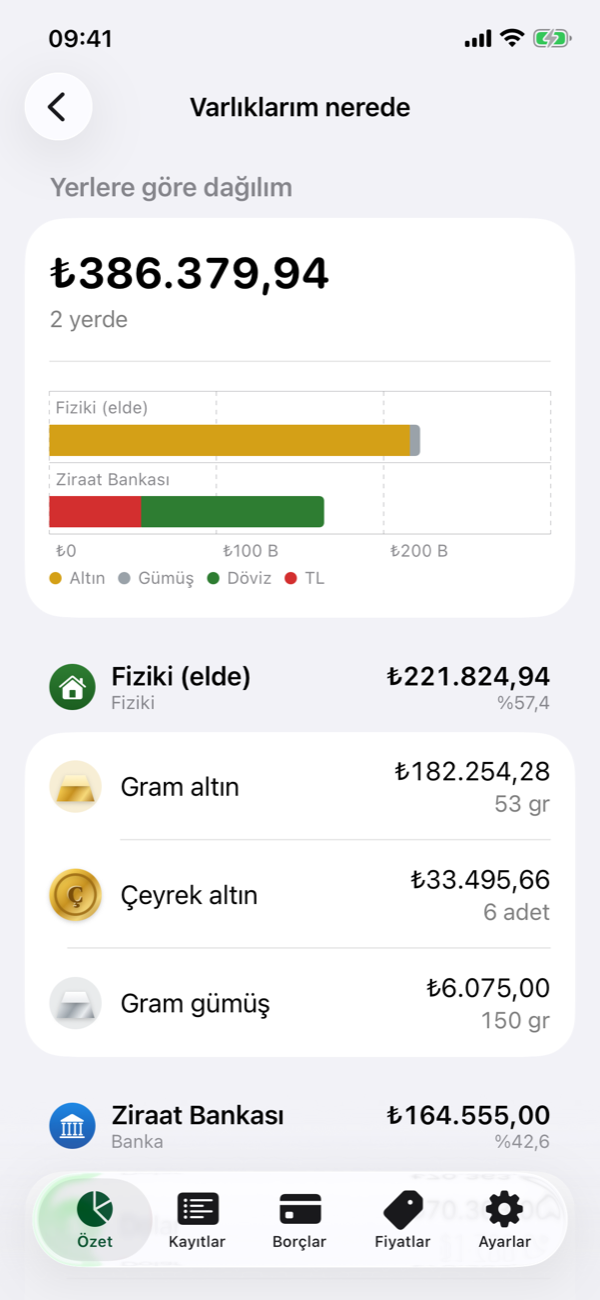
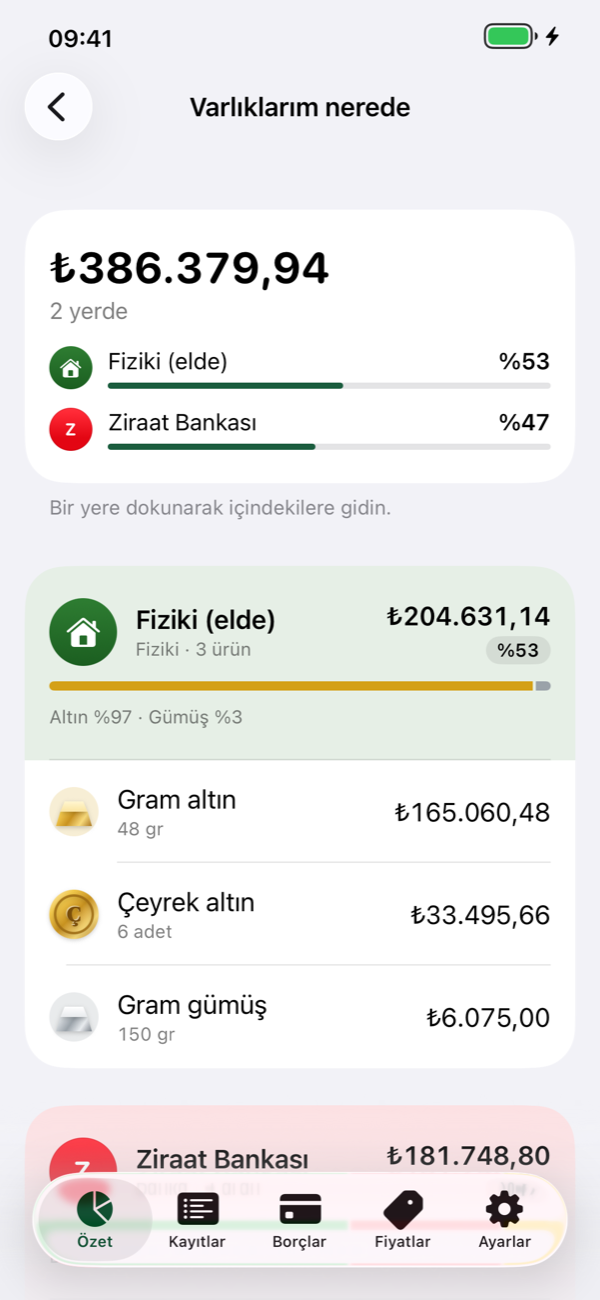
Varlıklarım nerede: yeni düzen
- Yer adları ile çubukların üst üste bindiği Swift Charts grafiği yerine,
  paya göre sıralı, logolu satırlar ve tek renkli doluluk çubukları.
  Bir satıra dokununca o yerin kartına kaydırılır.
- Her yer ayrı bir kart: kurumun marka rengiyle tonlanmış başlık bandında
  logo, ad, ürün sayısı, toplam, pay ve türlere göre dağılım çubuğu.
  Tür renkleri yalnızca tür dağılımında kullanılır.
- TL satırında tutarı tekrarlayan miktar yazılmaz.
- README ekran görüntüsü yenilendi.

diff --git a/BirikimDefteri/Views/Summary/LocationsOverviewView.swift b/BirikimDefteri/Views/Summary/LocationsOverviewView.swift
@@ -1,7 +1,6 @@
-import Charts
 import SwiftUI
 
-/// Varlıkların nerede durduğunu tek sayfada gösterir: yer başına toplam, pay ve içindekiler.
+/// Varlıkların nerede durduğunu tek sayfada gösterir: yerlerin toplamdaki payı, her yerin içindekiler ve tür dağılımı.
 struct LocationsOverviewView: View {
     let filter: PersonFilter
 
@@ -13,81 +12,184 @@ struct LocationsOverviewView: View {
         let total = breakdown.sum(\.value)
         let showsPerson = filter == .everyone && ledger.people.count > 1
 
-        List {
-            if breakdown.isEmpty {
-                ContentUnavailableView(
-                    "Henüz varlık yok",
-                    systemImage: "mappin.slash",
-                    description: Text("Alım ekledikçe varlıklarınızın nerede durduğu burada görünür.")
-                )
-                .listRowBackground(Color.clear)
-            } else {
-                Section {
-                    VStack(alignment: .leading, spacing: 4) {
-                        Text(Format.lira(total))
-                            .font(.system(.title, design: .rounded, weight: .bold))
-                            .monospacedDigit()
-                        Text("\(breakdown.count) yerde")
-                            .font(.subheadline)
-                            .foregroundStyle(.secondary)
-                    }
-                    .padding(.vertical, 4)
-                    LocationChart(breakdown: breakdown, calculator: calculator)
-                        .padding(.vertical, 4)
-                } header: {
-                    Text("Yerlere göre dağılım")
-                }
-
-                ForEach(breakdown) { place in
+        ScrollViewReader { proxy in
+            List {
+                if breakdown.isEmpty {
+                    ContentUnavailableView(
+                        "Henüz varlık yok",
+                        systemImage: "mappin.slash",
+                        description: Text("Alım ekledikçe varlıklarınızın nerede durduğu burada görünür.")
+                    )
+                    .listRowBackground(Color.clear)
+                } else {
                     Section {
-                        ForEach(place.holdings) { holding in
-                            LocationHoldingRow(holding: holding, showsPerson: showsPerson)
+                        LocationShares(breakdown: breakdown, total: total) { id in
+                            withAnimation { proxy.scrollTo(id, anchor: .top) }
                         }
-                    } header: {
-                        LocationHeader(place: place, share: total > 0 ? place.value / total : 0)
                     } footer: {
-                        if place.hasMissingPrice {
-                            Text("Fiyatı girilmemiş ürünler toplama katılmadı.")
+                        if breakdown.count > 1 {
+                            Text("Bir yere dokunarak içindekilere gidin.")
+                        }
+                    }
+
+                    ForEach(breakdown) { place in
+                        Section {
+                            LocationHeader(
+                                place: place,
+                                share: total > 0 ? place.value / total : 0,
+                                composition: composition(of: place, calculator: calculator)
+                            )
+                            .id(place.locationID)
+                            .listRowBackground(
+                                ZStack {
+                                    Color(.secondarySystemGroupedBackground)
+                                    PlaceIcon.accent(for: place.location).opacity(0.12)
+                                }
+                            )
+                            ForEach(place.holdings) { holding in
+                                LocationHoldingRow(holding: holding, showsPerson: showsPerson)
+                            }
+                        } footer: {
+                            if place.hasMissingPrice {
+                                Text("Fiyatı girilmemiş ürünler toplama katılmadı.")
+                            }
                         }
                     }
                 }
             }
+            .listSectionSpacing(.custom(24))
         }
         .navigationTitle("Varlıklarım nerede")
         .navigationBarTitleDisplayMode(.inline)
     }
+
+    /// Bir yerdeki türlerin değere göre payı, büyükten küçüğe.
+    private func composition(of place: LocationHoldings, calculator: PortfolioCalculator) -> [ShareBar.Part] {
+        let total = place.value
+        guard total > 0 else { return [] }
+        let groups = Dictionary(grouping: place.holdings) { (holding: Holding) -> AssetCategory in
+            calculator.assets[holding.key.assetID]?.category ?? .other
+        }
+        var values: [(category: AssetCategory, value: Decimal)] = []
+        for (category, holdings) in groups {
+            let value = holdings.sum { $0.value ?? 0 }
+            if value > 0 { values.append((category, value)) }
+        }
+        return values.sorted { $0.value > $1.value }.map { item in
+            ShareBar.Part(id: item.category.rawValue, title: item.category.title,
+                          color: ChartPalette.palette(for: item.category)[0], share: item.value / total)
+        }
+    }
 }
 
+/// Toplam ve yerlerin paylarını gösteren üst kart; bir yere dokununca onun kartına gider.
+private struct LocationShares: View {
+    let breakdown: [LocationHoldings]
+    let total: Decimal
+    let select: (UUID) -> Void
+    @ScaledMetric private var iconSize: CGFloat = 28
+
+    var body: some View {
+        VStack(alignment: .leading, spacing: 14) {
+            VStack(alignment: .leading, spacing: 2) {
+                Text(Format.lira(total))
+                    .font(.system(.title, design: .rounded, weight: .bold))
+                    .monospacedDigit()
+                    .lineLimit(1)
+                    .minimumScaleFactor(0.6)
+                Text("\(breakdown.count) yerde")
+                    .font(.subheadline)
+                    .foregroundStyle(.secondary)
+            }
+
+            if total > 0 {
+                VStack(spacing: 12) {
+                    ForEach(breakdown) { place in
+                        Button {
+                            select(place.locationID)
+                        } label: {
+                            shareRow(place)
+                        }
+                        .buttonStyle(.plain)
+                    }
+                }
+            }
+        }
+        .padding(.vertical, 6)
+    }
+
+    private func shareRow(_ place: LocationHoldings) -> some View {
+        let share = place.value / total
+        return HStack(spacing: 10) {
+            PlaceIcon(location: place.location, size: iconSize)
+            VStack(spacing: 5) {
+                HStack(alignment: .firstTextBaseline) {
+                    Text(name(place))
+                        .lineLimit(1)
+                    Spacer(minLength: 8)
+                    Text(Format.percent(share))
+                        .fontWeight(.semibold)
+                        .monospacedDigit()
+                }
+                .font(.subheadline)
+                ProgressView(value: min(max(share.doubleValue, 0), 1))
+                    .tint(Theme.green)
+            }
+        }
+        .contentShape(Rectangle())
+        .accessibilityElement(children: .combine)
+        .accessibilityHint("Bu yerin içindekilere gider")
+    }
+
+    private func name(_ place: LocationHoldings) -> String {
+        place.location?.name ?? "Bilinmeyen yer"
+    }
+}
+
+/// Bir yerin kartının başlığı: logo, ad, toplam, pay ve içindeki türlerin dağılımı.
 private struct LocationHeader: View {
     let place: LocationHoldings
     let share: Decimal
+    let composition: [ShareBar.Part]
+    @ScaledMetric private var iconSize: CGFloat = 44
 
     var body: some View {
         let kind = place.location?.kind ?? .physical
+        let productCount = Set(place.holdings.map(\.key.assetID)).count
 
-        HStack(spacing: 10) {
-            PlaceIcon(location: place.location, size: 34)
-            VStack(alignment: .leading, spacing: 0) {
-                Text(place.location?.name ?? "Bilinmeyen yer")
-                    .font(.headline)
-                    .foregroundStyle(Color.primary)
-                Text(kind.title)
-                    .font(.caption)
-                    .foregroundStyle(Color.secondary)
+        VStack(alignment: .leading, spacing: 10) {
+            HStack(spacing: 12) {
+                PlaceIcon(location: place.location, size: iconSize)
+                VStack(alignment: .leading, spacing: 2) {
+                    Text(place.location?.name ?? "Bilinmeyen yer")
+                        .font(.headline)
+                    Text("\(kind.title) · \(productCount) ürün")
+                        .font(.caption)
+                        .foregroundStyle(.secondary)
+                }
+                Spacer(minLength: 8)
+                VStack(alignment: .trailing, spacing: 3) {
+                    Text(Format.lira(place.value))
+                        .font(.headline)
+                        .monospacedDigit()
+                    Text(Format.percent(share))
+                        .font(.caption.weight(.semibold))
+                        .monospacedDigit()
+                        .padding(.horizontal, 7)
+                        .padding(.vertical, 2)
+                        .background(Color.primary.opacity(0.08), in: Capsule())
+                }
             }
-            Spacer(minLength: 8)
-            VStack(alignment: .trailing, spacing: 0) {
-                Text(Format.lira(place.value))
-                    .font(.headline)
-                    .foregroundStyle(Color.primary)
-                    .monospacedDigit()
-                Text(Format.percent(share))
+
+            if !composition.isEmpty {
+                ShareBar(parts: composition, height: 6)
+                Text(composition.map { "\($0.title) \(Format.percent($0.share))" }.joined(separator: " · "))
                     .font(.caption)
-                    .foregroundStyle(Color.secondary)
+                    .foregroundStyle(.secondary)
             }
         }
-        .textCase(nil)
-        .padding(.bottom, 2)
+        .padding(.vertical, 6)
+        .accessibilityElement(children: .combine)
     }
 }
 
@@ -95,7 +197,7 @@ private struct LocationHoldingRow: View {
     let holding: Holding
     let showsPerson: Bool
     @Environment(\.ledger) private var ledger
-    @ScaledMetric private var iconSize: CGFloat = 34
+    @ScaledMetric private var iconSize: CGFloat = 32
 
     var body: some View {
         let asset = ledger.calculator.assets[holding.key.assetID]
@@ -104,64 +206,60 @@ private struct LocationHoldingRow: View {
             AssetIcon(asset: asset, size: iconSize)
             VStack(alignment: .leading, spacing: 2) {
                 Text(asset?.name ?? "Bilinmeyen ürün")
-                if showsPerson {
-                    Text(ledger.personName(holding.key.personID))
+                if !detail(asset).isEmpty {
+                    Text(detail(asset))
                         .font(.caption)
                         .foregroundStyle(.secondary)
+                        .monospacedDigit()
                 }
             }
             Spacer(minLength: 8)
-            VStack(alignment: .trailing, spacing: 2) {
-                Text(holding.value.map(Format.lira) ?? "Fiyat yok")
-                    .monospacedDigit()
-                    .foregroundStyle(holding.value == nil ? Color.orange : Color.primary)
-                Text(Format.quantity(holding.quantity, unit: asset?.unit ?? .piece))
-                    .font(.subheadline)
-                    .foregroundStyle(.secondary)
-                    .monospacedDigit()
-            }
+            Text(holding.value.map(Format.lira) ?? "Fiyat yok")
+                .monospacedDigit()
+                .foregroundStyle(holding.value == nil ? Color.orange : Color.primary)
         }
         .accessibilityElement(children: .combine)
     }
+
+    /// Miktar (TL'de tutarla aynı olduğu için yazılmaz) ve gerekiyorsa kişi.
+    private func detail(_ asset: AssetInfo?) -> String {
+        var parts: [String] = []
+        if let asset, asset.unit != .lira {
+            parts.append(Format.quantity(holding.quantity, unit: asset.unit))
+        }
+        if showsPerson {
+            parts.append(ledger.personName(holding.key.personID))
+        }
+        return parts.joined(separator: " · ")
+    }
 }
 
-/// Her yer için türlere bölünmüş yatay çubuk.
-private struct LocationChart: View {
-    let breakdown: [LocationHoldings]
-    let calculator: PortfolioCalculator
-    @ScaledMetric private var rowHeight: CGFloat = 34
-
-    private struct Entry: Identifiable {
-        let location: String
-        let category: AssetCategory
-        let value: Double
-        var id: String { "\(location)-\(category.rawValue)" }
+/// Paylara bölünmüş yatay çubuk.
+struct ShareBar: View {
+    struct Part: Identifiable {
+        let id: String
+        let title: String
+        let color: Color
+        let share: Decimal
     }
 
-    var body: some View {
-        let entries = breakdown.flatMap { place in
-            Dictionary(grouping: place.holdings) { calculator.assets[$0.key.assetID]?.category ?? .other }
-                .map { category, holdings in
-                    Entry(location: place.location?.name ?? "Bilinmeyen yer", category: category, value: holdings.sum { $0.value ?? 0 }.doubleValue)
-                }
-        }
-        let categories = AssetCategory.allCases.filter { category in entries.contains { $0.category == category && $0.value > 0 } }
+    let parts: [Part]
+    var height: CGFloat = 8
 
-        Chart(entries) { entry in
-            BarMark(x: .value("Değer", entry.value), y: .value("Yer", entry.location))
-                .foregroundStyle(by: .value("Tür", entry.category.title))
-                .cornerRadius(3)
-        }
-        .chartForegroundStyleScale(domain: categories.map(\.title), range: categories.map { ChartPalette.palette(for: $0)[0] })
-        .chartXAxis {
-            AxisMarks(values: .automatic(desiredCount: 4)) { value in
-                AxisGridLine(stroke: StrokeStyle(lineWidth: 0.5, dash: [3, 3]))
-                AxisValueLabel {
-                    if let amount = value.as(Double.self) { Text(Format.compactLira(amount)) }
+    var body: some View {
+        GeometryReader { proxy in
+            let spacing: CGFloat = parts.count > 1 ? 2 : 0
+            let available = proxy.size.width - spacing * CGFloat(parts.count - 1)
+            HStack(spacing: spacing) {
+                ForEach(parts) { part in
+                    Rectangle()
+                        .fill(part.color)
+                        .frame(width: max(available * CGFloat(part.share.doubleValue), 2))
                 }
             }
         }
-        .chartLegend(position: .bottom, alignment: .leading)
-        .frame(height: rowHeight * CGFloat(breakdown.count) + 60)
+        .frame(height: height)
+        .clipShape(Capsule())
+        .accessibilityHidden(true)
     }
 }

diff --git a/BirikimDefteri/Views/InstitutionLogo.swift b/BirikimDefteri/Views/InstitutionLogo.swift
@@ -47,6 +47,14 @@ struct PlaceIcon: View {
     /// Tanınmayan yerlerde kullanılacak dolgu; verilmezse yer türünün rengi kullanılır.
     var color: Color?
 
+    /// Yerin vurgu rengi: tanınan kurumda marka rengi, değilse yer türünün rengi.
+    static func accent(for location: LocationInfo?) -> Color {
+        if let location, location.kind == .bank, let institution = Institution.match(location.name) {
+            return Color(hex: institution.color)
+        }
+        return location?.kind == .bank ? Color(hex: 0x1E88E5) : Color(hex: 0x2E7D32)
+    }
+
     var body: some View {
         if let location, location.kind == .bank, let institution = Institution.match(location.name) {
             InstitutionLogo(institution: institution, size: size)
